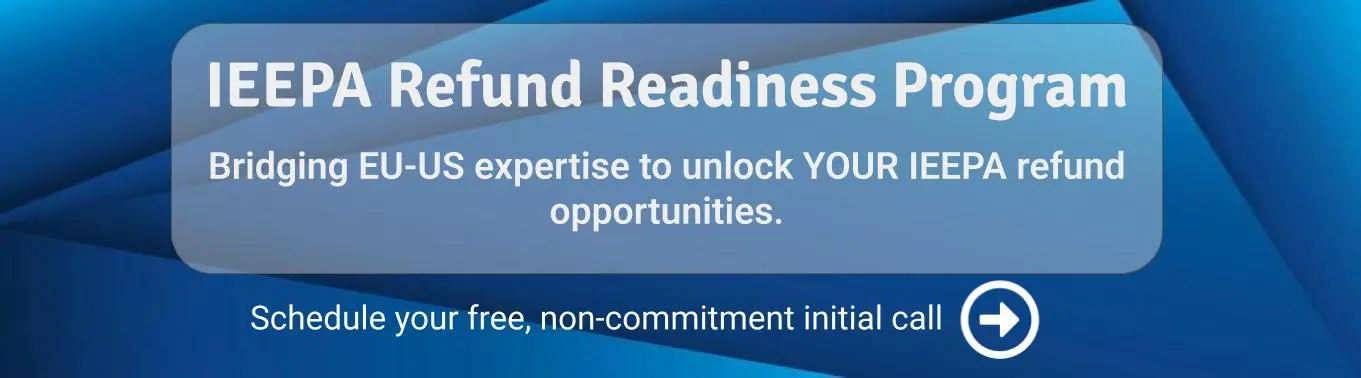
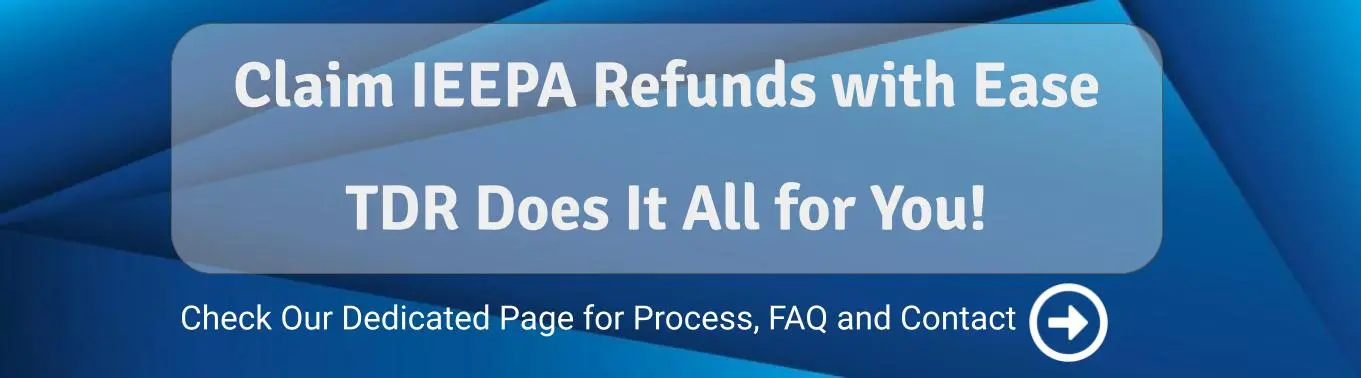
Update to IEEPA callout

Changed region(s): [[0.1543, 0.3783, 0.8332, 0.6111], [0.1543, 0.1455, 0.8332, 0.3201], [0.1234, 0.7275, 0.8332, 0.9603]]

diff --git a/_posts/2026-04-26-stop-chasing-numerous-brokers-how-to-simplify-your-ieepa-refunds.md b/_posts/2026-04-26-stop-chasing-numerous-brokers-how-to-simplify-your-ieepa-refunds.md
@@ -30,6 +30,8 @@ Every entry is categorized into one of three buckets to make the filing path cle
 
 This structure helps finance teams understand both timing and risk.  It also helps supply chain leaders see which entries are immediately actionable versus which ones require a more controlled compliance approach.
 
+<a href="https://tradedutyrefund.com/ieepa-refund-support.html"><img src="../assets/images/CallOut/IEEPARefundReadinessProgram.webp" alt="TDR CallOut" style="border-radius:1%"></a>
+
 ## Refund Exposure Analysis
 
 We calculate the estimated refund exposure across all categories so leadership can see the financial opportunity with more clarity.  That includes what may be recovered in Phase 1, what is likely to move into future phases, and the total IEEPA duties paid.  In practical terms, that means fewer assumptions and a more defensible view of recoverable value.

diff --git a/_posts/2026-03-13-why-us-consumers-paid-but-may-not-get-refunded-of-reciprocal-tariffs.md b/_posts/2026-03-13-why-us-consumers-paid-but-may-not-get-refunded-of-reciprocal-tariffs.md
@@ -69,7 +69,7 @@ Yes, and that involves a **Power of Attorney (POA) and a third party broker**. T
 
 For B2C transactions, this requires foresight and contractual arrangements made **before** the tariff payments occurred. For the millions of individual transactions that have already taken place, obtaining retroactive POAs is impractical to impossible.
 
-<a href="https://zcal.co/i/vGcc6eVj"><img src="../assets/images/CallOut/IEEPARefundReadinessProgram.webp" alt="TDR CallOut" style="border-radius:1%"></a>
+<a href="https://tradedutyrefund.com/ieepa-refund-support.html"><img src="../assets/images/CallOut/IEEPARefundReadinessProgram.webp" alt="TDR CallOut" style="border-radius:1%"></a>
 
 ## Lessons for the Future
 

diff --git a/_posts/2026-04-09-quiz-yourself-on-ieepa-refund-and-be-fully-prepared.md b/_posts/2026-04-09-quiz-yourself-on-ieepa-refund-and-be-fully-prepared.md
@@ -73,7 +73,7 @@ author: TDR
 </div>
 <hr/>
 
-<a href="https://zcal.co/i/vGcc6eVj"><img src="../assets/images/CallOut/IEEPARefundReadinessProgram.webp" alt="TDR CallOut" style="border-radius:1%"></a>
+<a href="https://tradedutyrefund.com/ieepa-refund-support.html"><img src="../assets/images/CallOut/IEEPARefundReadinessProgram.webp" alt="TDR CallOut" style="border-radius:1%"></a>
 
 ### 6. In case of a DDP sale, who will get the IEEPA credit?
 
